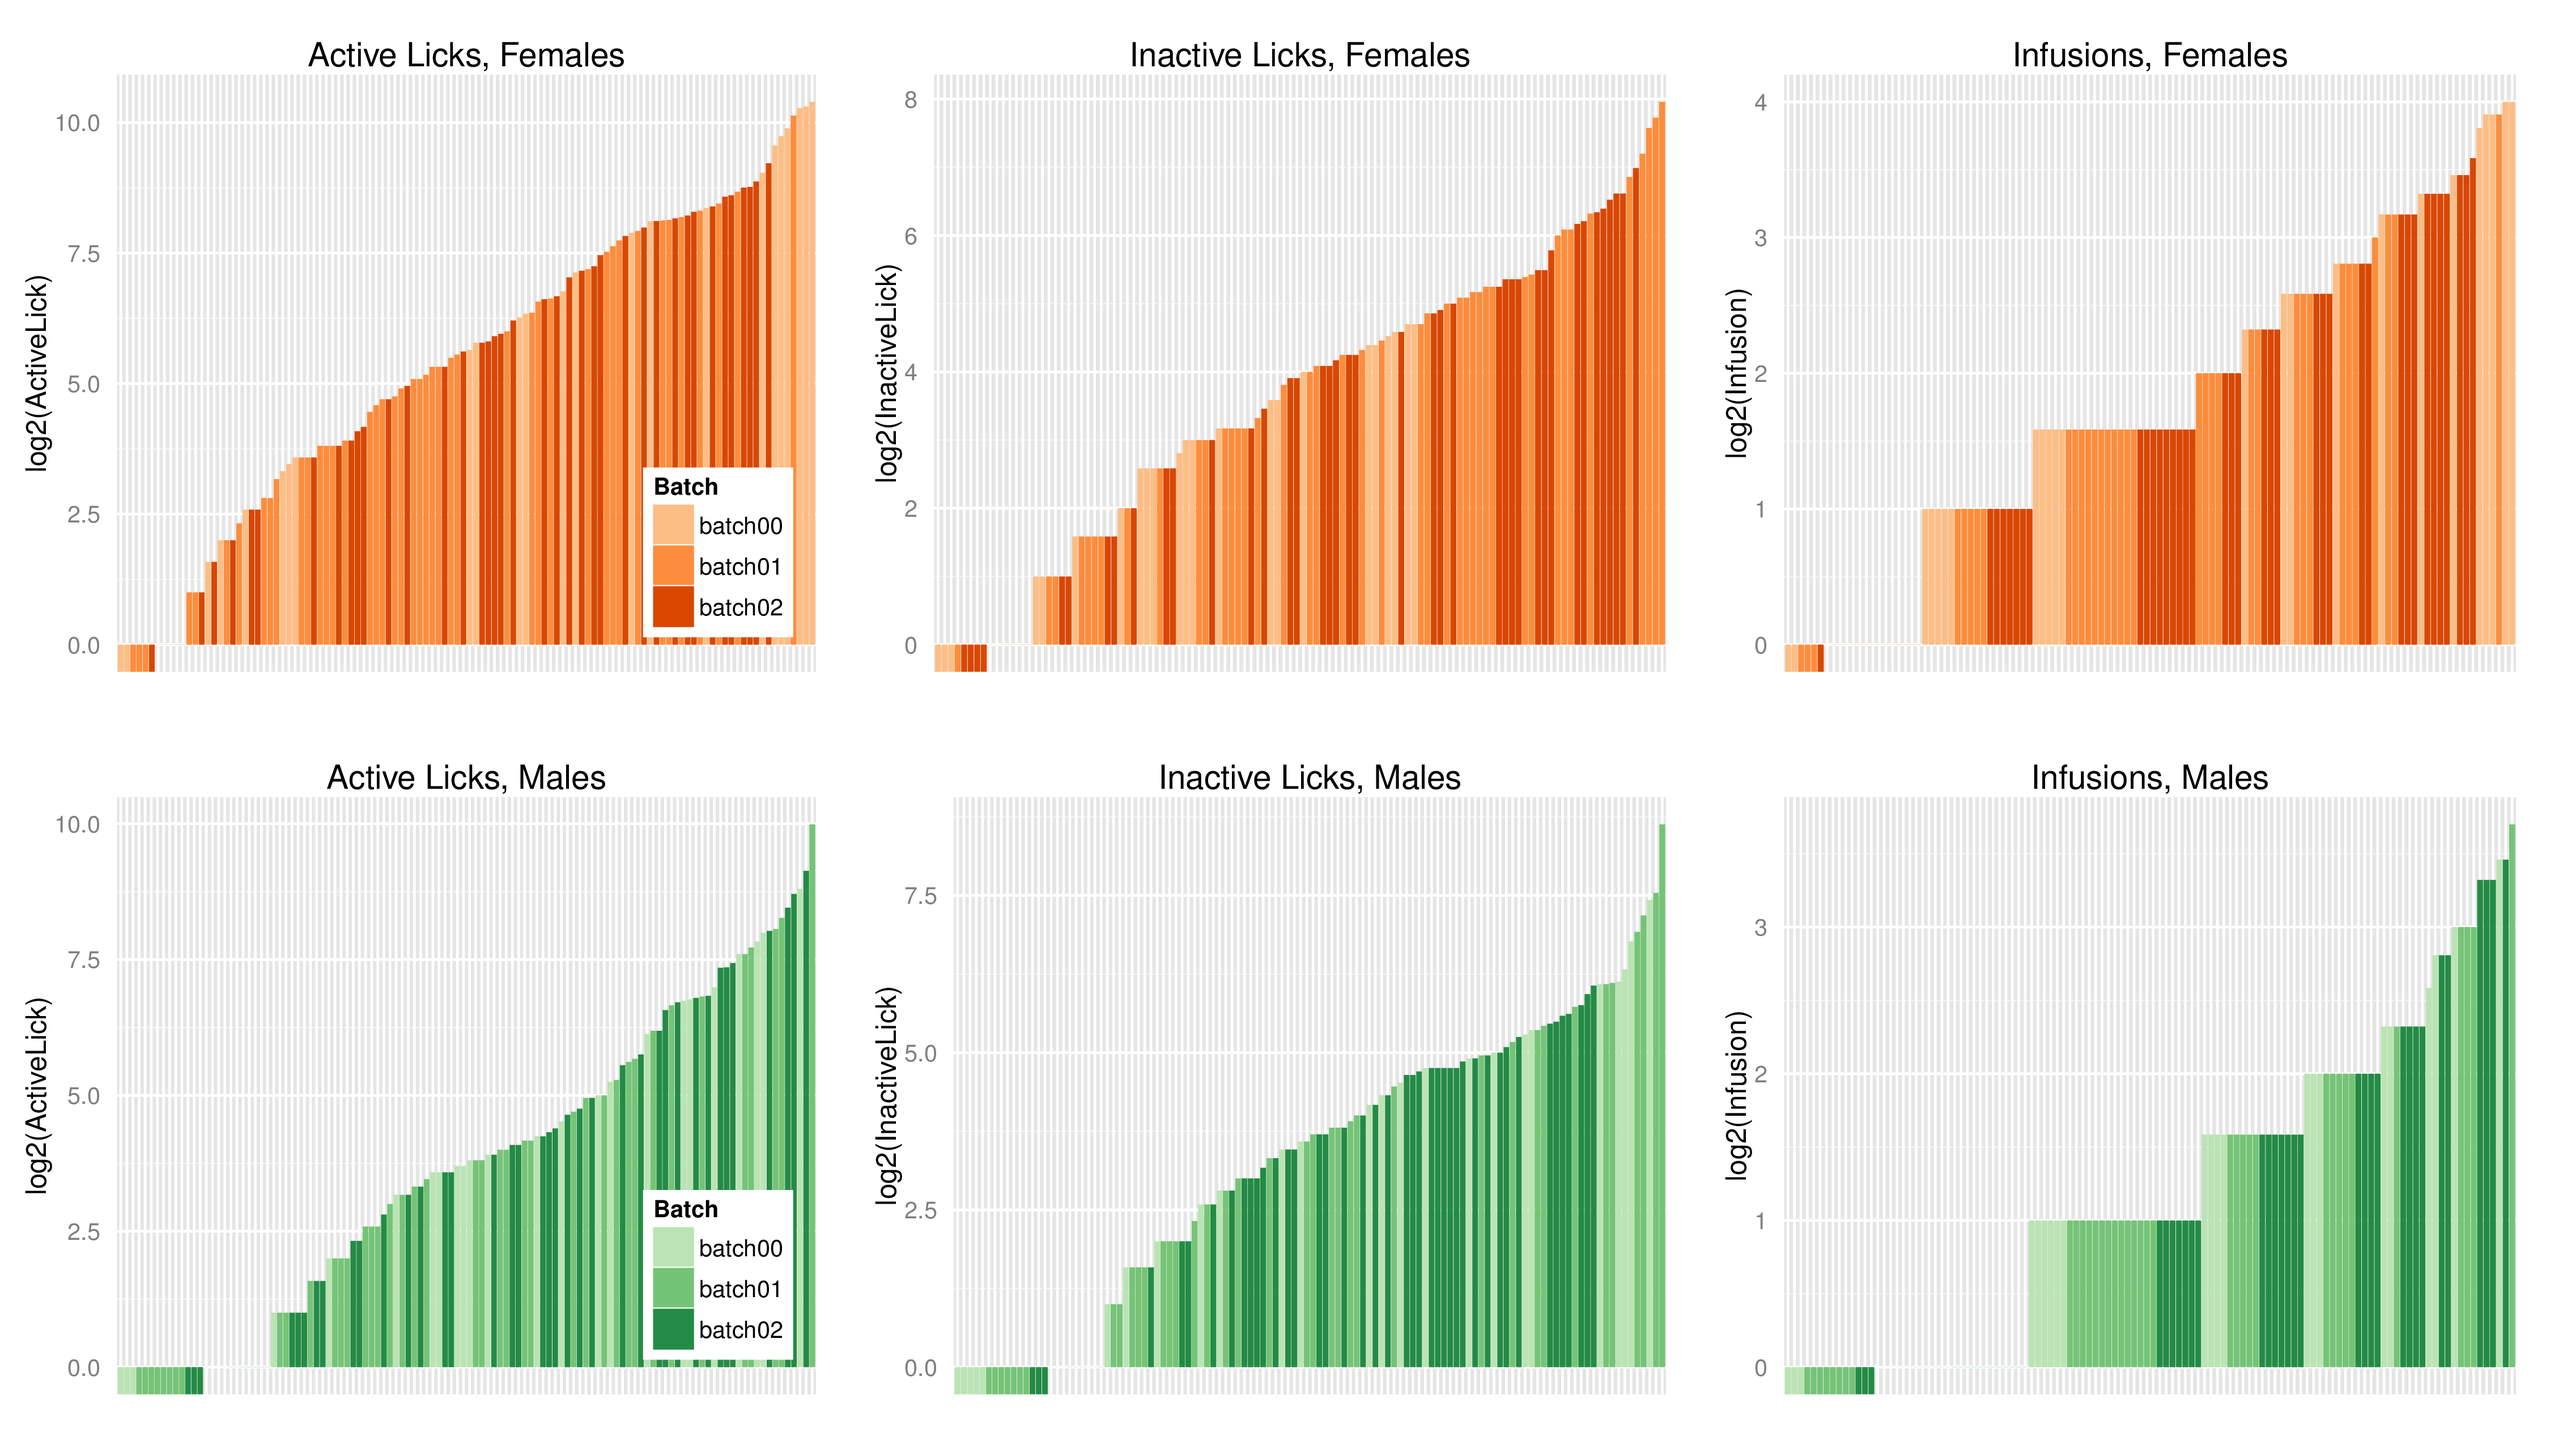
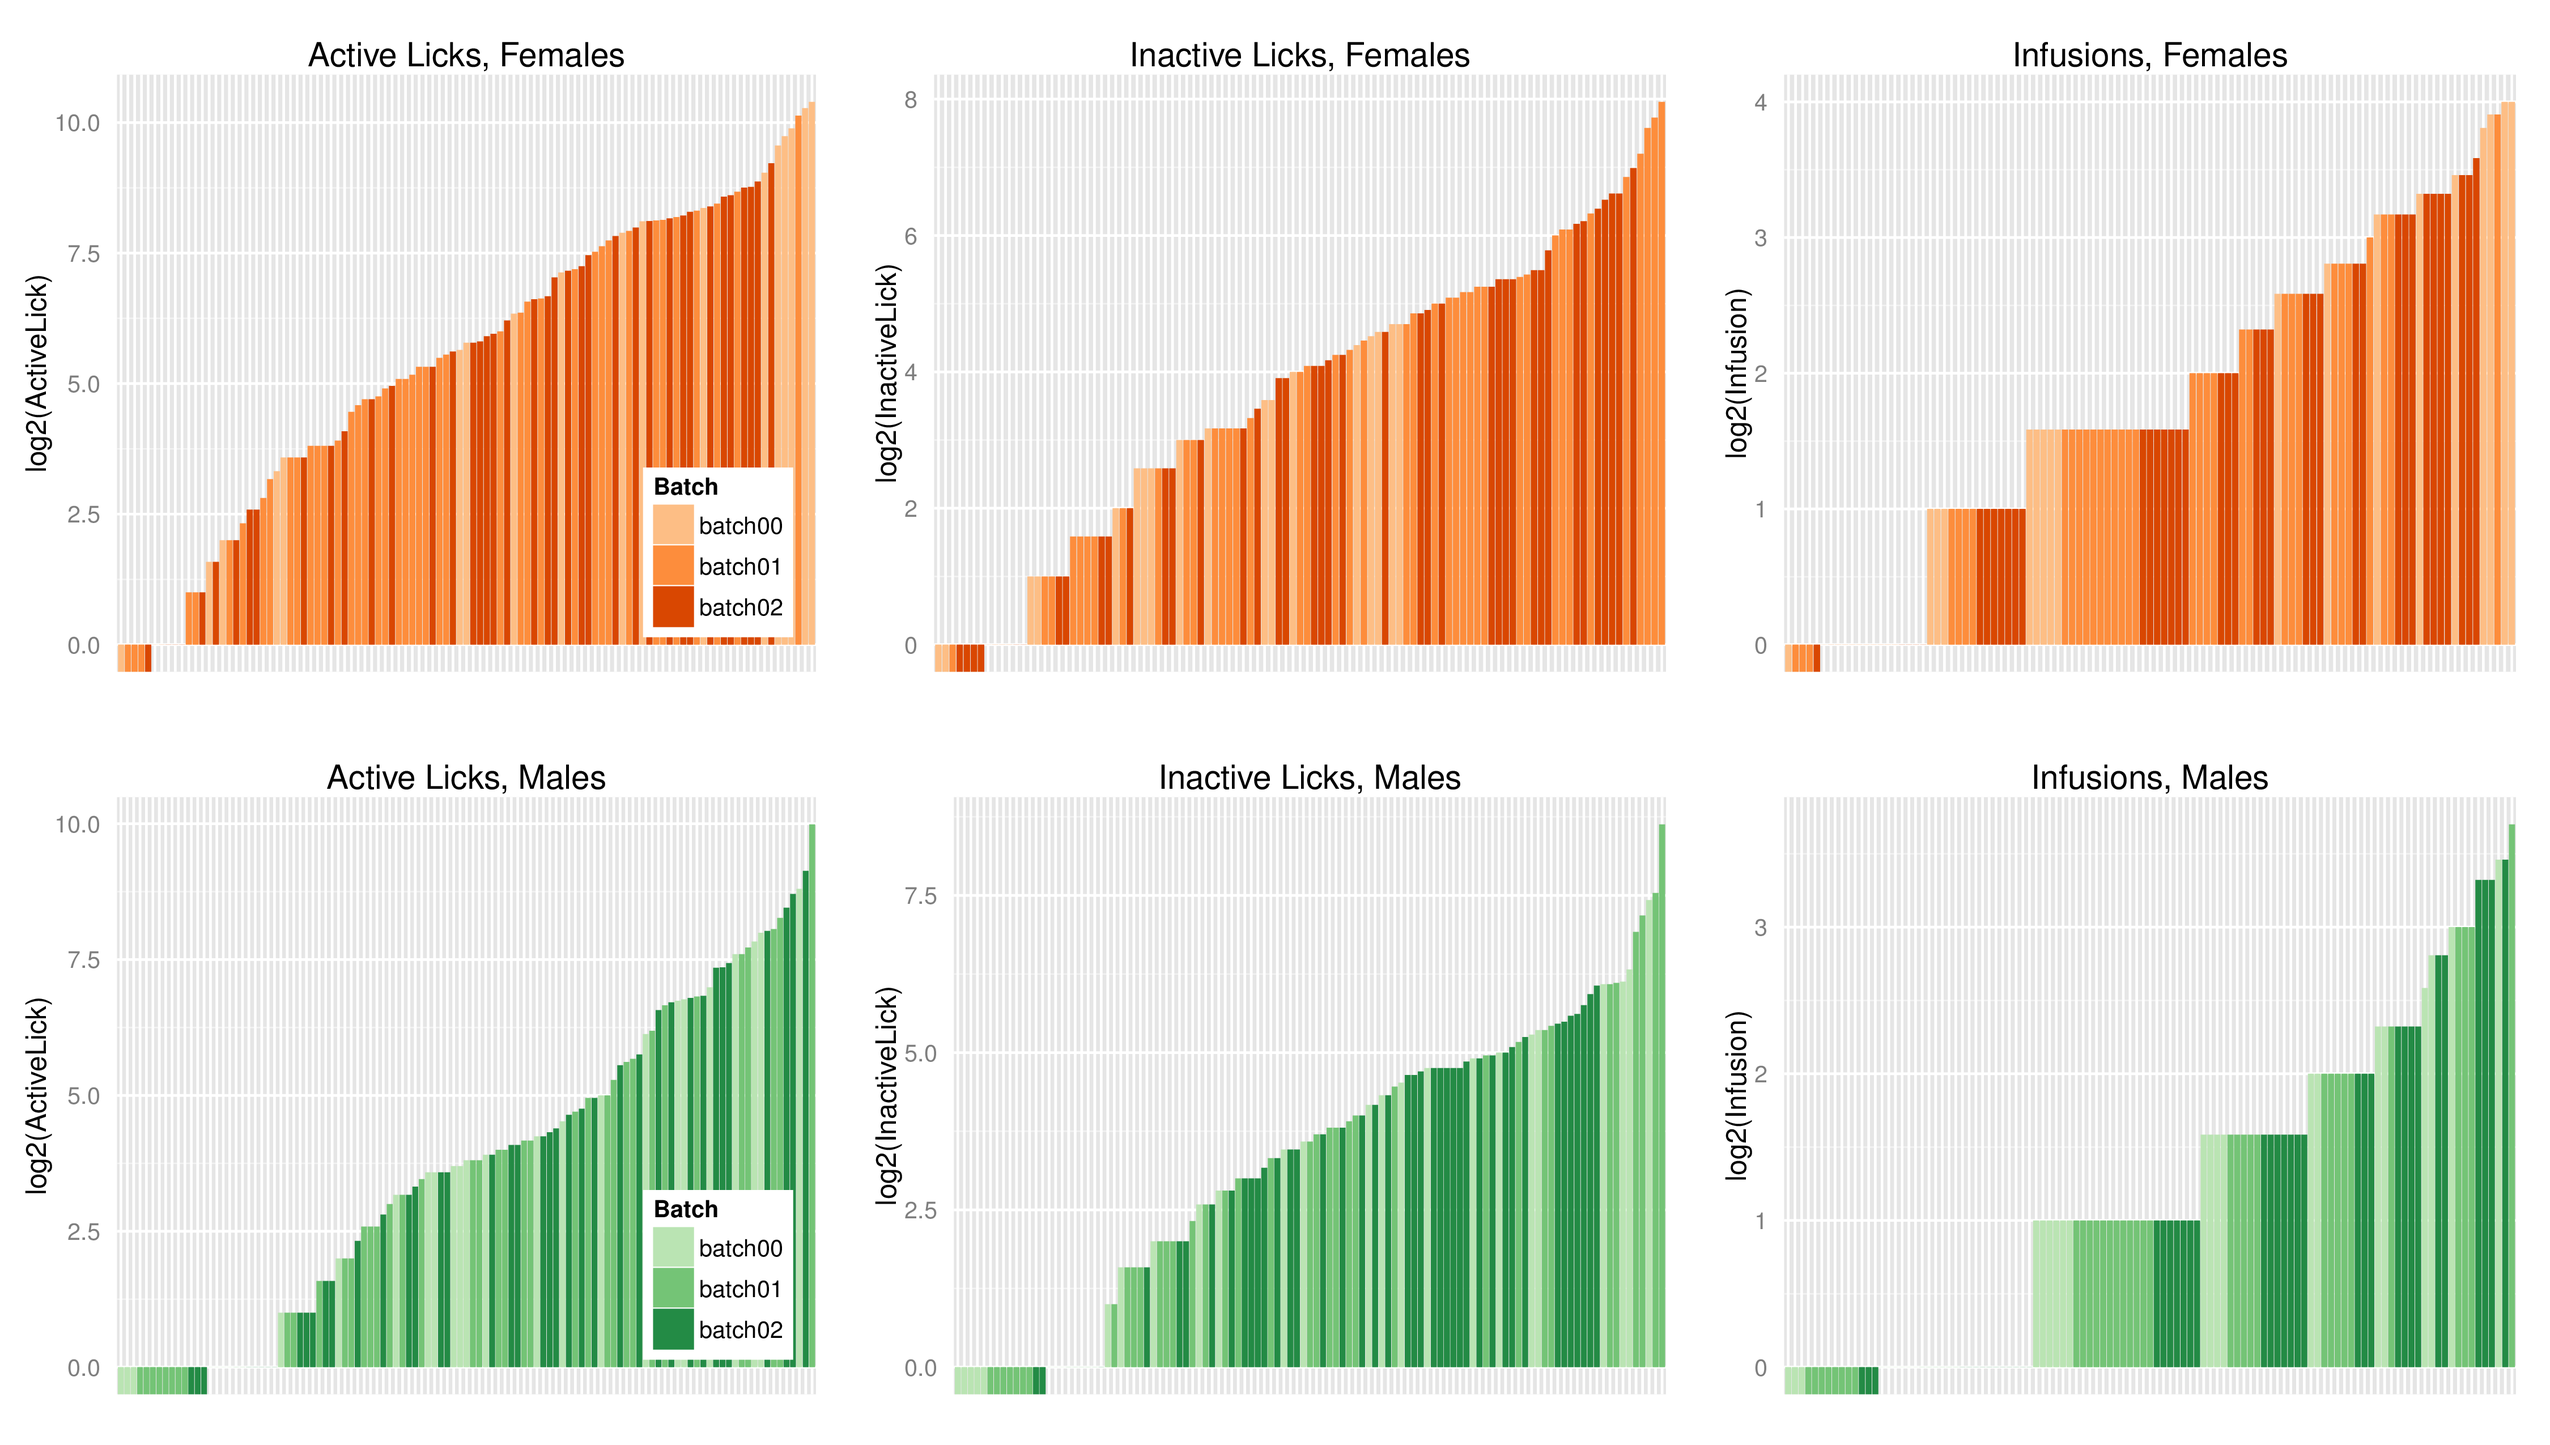
hide the alt pub slide, updated menthol ext image

diff --git a/index.html b/index.html
@@ -379,7 +379,7 @@
 
 					<section>
 						<h2> Nicotine self-administration</h2>
-						<h3> Pilot data, adults</h3>
+						<h4> Pilot data, adults</h4>
 						<img width=70% height="auto" src="images/p50/fig4.g2b.figure.male.vs.female.nicSA.cummulative.png">
 						<hr align="left" width=15%>
 						<p align=left>
@@ -402,7 +402,6 @@
 					</section>
 
 
-
 					<section>
 						<h2>Body Weight</h2>
 						<h4>Nicotine self-administration</h4>
@@ -413,7 +412,7 @@
 					<section>
 						<h2> Nicotine self-administration</h2>
 						<h4> Sessions 1-10</h4>
-						<img width=100%  height="auto" src="images/p50/barsNicotineBatchEffect.png">
+						<img width=100%  height="auto" src="images/p50/barsNicotineBatchEffect10Days.png">
 					</section>
 
 					<section>
@@ -537,17 +536,6 @@
 						<li> Heritability of nicotine self-administration with menthol cue,  drafting </li> 
 						</ul>
 					</section>
-
-					<section>
-						<h2>Alternatives to traditional journals</h2>
-						<a href="http://biorxiv.org" target=_new>
-						<img width=50%  src="images/p50/bioRxiv_logo.png">
-						</a>
-						<br>
-						<a href="https://peerj.com/pricing" target=_new>
-						<img width=50% src="images/p50/PeerJ-logo.png">
-						</a>
-					</section>
 				</section> <!-- spin off ends -->
 
 
@@ -556,7 +544,7 @@
 				<hr>
 				<table><tr><td width=50%>
 				<h3>Current lab members</h3> 
-				Tengfei Wang<br> Wenyan Han<br> Jie Shen<p>
+				Tengfei Wang, <small>Postdoc</small><br> Wenyan Han, <small>Postdoc</small><br>Jie Shen, <small>Technician</small><p>
 
 				<h3>Past lab members</h3> 
 				Reziwan Yimiti<br> 
@@ -568,7 +556,6 @@
 				<h3> Summer students </h3>
 				Katie Hill | Wesley Carter <br> 
 				Ethan Willis | Abigale Salinero <br> 
-
 
 			</td>
 
@@ -601,6 +588,19 @@
 				<section>
 
 				</section>
+
+
+				<section>
+					<h2>Alternatives to traditional journals</h2>
+					<a href="http://biorxiv.org" target=_new>
+					<img width=50%  src="images/p50/bioRxiv_logo.png">
+					</a>
+					<br>
+					<a href="https://peerj.com/pricing" target=_new>
+					<img width=50% src="images/p50/PeerJ-logo.png">
+					</a>
+				</section>
+
 
 				<section> 
 					<h2> Social learning reverses conditioned aversion to nicotine</h2>

diff --git a/css/theme/chicago6.css b/css/theme/chicago6.css
@@ -60,7 +60,7 @@ body {
   font-size: 1.0em; }
 
 .reveal h4 { 
-  font-size: 0.8em;
+  font-size: 1.0em;
   color:grey;
   }
 
